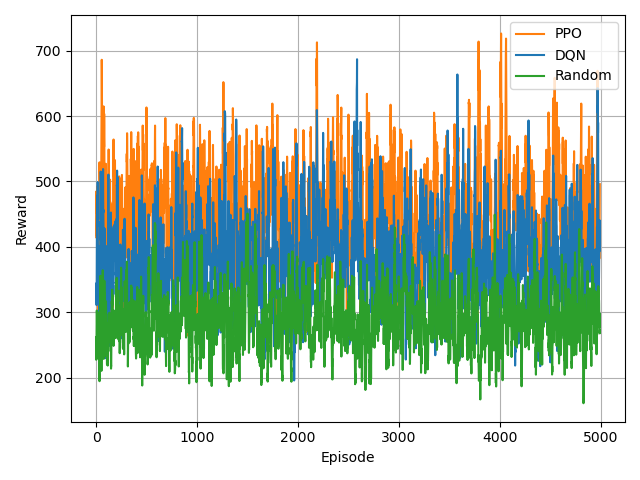
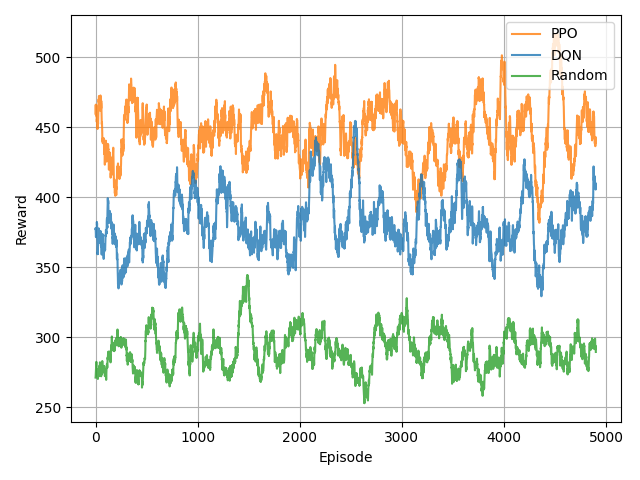
cambios para mostrar bien el comparison reward

diff --git a/sb-code/utils.py b/sb-code/utils.py
@@ -260,7 +260,7 @@ def read_scores(file_path):
     return pd.DataFrame(data, columns=['Episode', 'Score'])
 
 # Función para graficar la comparación de los tres modelos
-def plot_results(map_dir, window=10):
+def plot_results(map_dir, window=100):
     # Construir los nombres de archivo de puntuaciones para cada modelo
     ppo_file = os.path.join(map_dir, 'puntajes_ppo.txt')
     dqn_file = os.path.join(map_dir, 'puntajes_dqn.txt')
@@ -286,9 +286,9 @@ def plot_results(map_dir, window=10):
     ax1.set_ylabel('Reward')
     
     # Graficar puntajes suavizados para cada modelo
-    ax1.plot(range(len(ppo_smoothed)), ppo_smoothed, color='tab:orange', linestyle='-', label='PPO')
-    ax1.plot(range(len(dqn_smoothed)), dqn_smoothed, color='tab:blue', linestyle='-', label='DQN')
-    ax1.plot(range(len(random_smoothed)), random_smoothed, color='tab:green', linestyle='-', label='Random')
+    ax1.plot(range(len(ppo_smoothed)), ppo_smoothed, color='tab:orange', alpha=0.8, linestyle='-', label='PPO')
+    ax1.plot(range(len(dqn_smoothed)), dqn_smoothed, color='tab:blue', alpha=0.8, linestyle='-', label='DQN')
+    ax1.plot(range(len(random_smoothed)), random_smoothed, color='tab:green', alpha=0.8, linestyle='-', label='Random')
 
     # Añadir leyenda y ajustar diseño
     ax1.legend(loc='upper right')

diff --git a/sb-code/graficar.py b/sb-code/graficar.py
@@ -1,10 +1,13 @@
-from utils import plot_comparison, plot_side_by_side, plot_rewards, plot_epsilon
+from utils import plot_comparison, plot_side_by_side, plot_rewards, plot_epsilon, plot_results
 
 # Plot comparison between two models
-path = "trains/corridor/"
+path = "trains/take-cover"
 
-plot_comparison(f"{path}dqn-5", f"{path}ppo-6", window=10)
+#plot_comparison(f"{path}dqn-5", f"{path}ppo-6", window=10)
 #plot_side_by_side(f"{path}dqn-1", f"{path}ppo-1", window=10)
 #plot_rewards(f"{path}dqn-1", False, window=10)
 
 #plot_epsilon(f"{path}dqn-6")
+
+# Plot results for all models
+plot_results(path)
